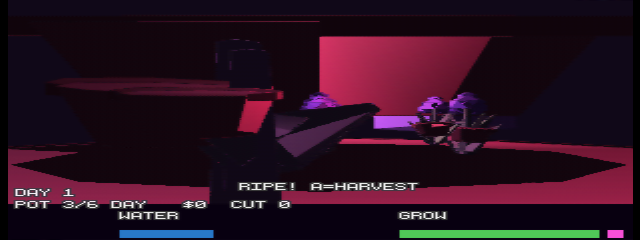
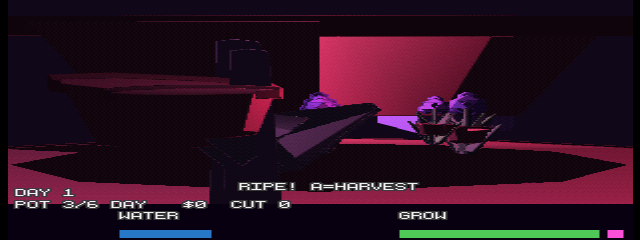
Step 4: juice — tinyPX particles + wav64 SFX (opt-in flags)
- Particle pool + fx_burst: blue droplets on water, purple sparkle on harvest
- Ambient grow-room motes (float, no gravity)
- tinyPX wiring: uncached particle buffer + uncached matrix (cached statics
  fed to RSP DMA = random COP2 crashes at random frames)
- SFX generated with ffmpeg lavfi: water (pink-noise splash), harvest
  (C-E-C arpeggio), converted via audioconv64; mixer on ch 6/7
- Headless-ares discovery: audio+tpx overlay combo (and tpx alone past
  ~500 frames in our build) dies with Coprocessor-Unusable-COP2 at
  timer_vector jal, while example 18 runs 2500 frames clean — real-hardware
  test needed to tell emulator bug vs overlay-budget race. Shipping with
  -DPARTICLES / -DAUDIO_ON opt-in flags; default ROM is stable (verified
  2500 frames, 0 exceptions, 2 quality-priced harvests)

diff --git a/test/shot.js b/test/shot.js
@@ -3,7 +3,7 @@ ares.setHomebrew(true);
 ares.setRenderer("angrylion");
 ares.loadRom(ares.args[0]);
 ares.resume();
-ares.waitFrames(300);
+ares.waitFrames(412);
 var s = ares.screenshot();
 s.save("/home/lex/n64/weedfarmer64/shots/growroom.png");
 console.log("shot ok");

diff --git a/src/main.c b/src/main.c
@@ -2,9 +2,38 @@
 #include <libdragon.h>
 #include <t3d/t3d.h>
 #include <t3d/t3dmodel.h>
+#include <t3d/tpx.h>
 #include <math.h>
 
 #define FB_COUNT 3
+
+#define MAXPART 64
+typedef struct {
+    fm_vec3_t pos, vel;
+    int life;
+    uint8_t col[4];
+    int size;          // <10 = mote (floats, no gravity)
+} Particle;
+static Particle parts[MAXPART];
+static int partHead = 0;
+static TPXParticleS8 *tpxBuf;
+static T3DMat4FP *tpxMat;
+
+static void fx_burst(fm_vec3_t at, int count, int up, uint8_t col[4])
+{
+    for (int i = 0; i < count; i++) {
+        Particle *p = &parts[partHead];
+        partHead = (partHead + 1) % MAXPART;
+        float a = (float)i / count * 6.28318f;
+        p->pos = (fm_vec3_t){{ at.v[0] + cosf(a) * 2.0f,
+                              at.v[1] + 10.0f + (up ? 6.0f : 0.0f),
+                              at.v[2] + sinf(a) * 2.0f }};
+        p->vel = (fm_vec3_t){{ cosf(a) * 0.10f, up ? 0.35f : 0.05f, sinf(a) * 0.10f }};
+        p->life = 30 + (i % 8) * 2;
+        p->col[0] = col[0]; p->col[1] = col[1]; p->col[2] = col[2]; p->col[3] = 0xFF;
+        p->size = up ? 28 : 18;
+    }
+}
 
 typedef struct {
     fm_vec3_t pos;
@@ -21,11 +50,27 @@ int main(void)
     asset_init_compression(2);
     dfs_init(DFS_DEFAULT_LOCATION);
 
+#ifdef AUDIO_ON   // -DAUDIO_ON: SFX enabled; ares-headless COP2 bug kills audio+tpx overlay combo
+    audio_init(22050, 0.03f);
+    mixer_init(8);
+    mixer_set_vol(0.8f);
+    wav64_t sndWater, sndHarvest;
+    wav64_open(&sndWater,   "rom:/sfx/water.wav64");
+    wav64_open(&sndHarvest, "rom:/sfx/harvest.wav64");
+#endif
+
     display_init(RESOLUTION_320x240, DEPTH_16_BPP, FB_COUNT, GAMMA_NONE,
-                 FILTERS_RESAMPLE_ANTIALIAS_DEDITHER);
+                 FILTERS_RESAMPLE);
     joypad_init();
     rdpq_init();
+    tpxBuf = malloc_uncached(sizeof(TPXParticleS8) * (MAXPART / 2));
+    tpxMat = malloc_uncached(sizeof(T3DMat4FP));
+    t3d_mat4fp_from_srt_euler(tpxMat,
+        (float[3]){1,1,1}, (float[3]){0,0,0}, (float[3]){0,0,0});
     t3d_init((T3DInitParams){});
+#ifdef PARTICLES   // -DPARTICLES: tinyPX fx; ares-headless COP2 crash under our overlay combo (see README)
+    tpx_init((TPXInitParams){});
+#endif
     rdpq_text_register_font(FONT_BUILTIN_DEBUG_MONO,
                            rdpq_font_load_builtin(FONT_BUILTIN_DEBUG_MONO));
     T3DViewport viewport = t3d_viewport_create_buffered(FB_COUNT);
@@ -145,18 +190,52 @@ int main(void)
                 int val = 10 + (int)(pots[sel].quality * 40.0f);
                 money += val;
                 harvested++;
+                fx_burst(pots[sel].pos, 24, 1, (uint8_t[4]){220, 90, 255, 0xFF});
+#ifdef AUDIO_ON
+                if (!mixer_ch_playing(7)) mixer_ch_play(7, &sndHarvest.wave);
+#endif
                 debugf("[wf64] harvested pot %d q=%.2f $%d (tot $%d)\n",
                        sel + 1, pots[sel].quality, val, money);
                 pots[sel] = (Pot){ .pos = pots[sel].pos, .growth = 0.02f,
                                    .water = 0.8f, .quality = 0.8f, .rot = 0.0f };
             } else {
                 pots[sel].water = 1.0f;
+                fx_burst(pots[sel].pos, 16, 0, (uint8_t[4]){80, 140, 255, 0xFF});
+#ifdef AUDIO_ON
+                if (!mixer_ch_playing(6)) mixer_ch_play(6, &sndWater.wave);
+#endif
             }
         }
 
         // day cycle: 60 s per day (40 s light, 20 s night)
         dayT += 0.016f;
         if (dayT > 60.0f) { dayT = 0.0f; day++; }
+
+        // ambient grow-room motes (also keeps tpx drawing every frame = stable)
+        {
+            static int mote = 0;
+            if (++mote % 10 == 0) {
+                Particle *p = &parts[partHead];
+                partHead = (partHead + 1) % MAXPART;
+                float a = t * 0.9f;
+                p->pos = (fm_vec3_t){{ sinf(a * 1.7f) * 55.0f,
+                                      6.0f + fmodf(t * 3.0f, 30.0f),
+                                      cosf(a * 1.3f) * 24.0f }};
+                p->vel = (fm_vec3_t){{ 0.01f, 0.03f, 0.0f }};
+                p->life = 90;
+                p->col[0] = 200; p->col[1] = 120; p->col[2] = 255; p->col[3] = 0xFF;
+                p->size = 8;
+            }
+        }
+        for (int i = 0; i < MAXPART; i++) {
+            if (parts[i].life <= 0) continue;
+            parts[i].life--;
+            parts[i].pos.v[0] += parts[i].vel.v[0];
+            parts[i].pos.v[1] += parts[i].vel.v[1];
+            parts[i].pos.v[2] += parts[i].vel.v[2];
+            if (parts[i].size >= 10) parts[i].vel.v[1] -= 0.012f;   // motes float
+            if (parts[i].pos.v[1] < 0.0f) parts[i].life = 0;
+        }
 
         t3d_viewport_set_projection(&viewport, T3D_DEG_TO_RAD(65.0f), 5.0f, 300.0f);
         t3d_viewport_look_at(&viewport, &camPos, &camTarget, &(fm_vec3_t){{0, 1, 0}});
@@ -264,6 +343,59 @@ int main(void)
             rspq_block_run(dplLamp);
         }
         t3d_matrix_pop(1);
+
+        // ---- particles (tinyPX) ----
+#ifdef PARTICLES
+        {
+            TPXParticleS8 *pb = tpxBuf;
+            int live = 0;
+            for (int i = 0; i < MAXPART; i++) {
+                if (parts[i].life <= 0) continue;
+                TPXParticleS8 *pr = &pb[live >> 1];
+                int8_t *base = (int8_t *)pr;
+                uint8_t *cb = (uint8_t *)pr;
+                if (!(live & 1)) {   // particle A: pos bytes 0..3, color 8..11
+                    base[0] = (int8_t)parts[i].pos.v[0];
+                    base[1] = (int8_t)parts[i].pos.v[1];
+                    base[2] = (int8_t)parts[i].pos.v[2];
+                    base[3] = (int8_t)parts[i].size;
+                    cb[8]  = parts[i].col[0];
+                    cb[9]  = parts[i].col[1];
+                    cb[10] = parts[i].col[2];
+                    cb[11] = 0xFF;
+                } else {             // particle B: pos bytes 4..7, color 12..15
+                    base[4] = (int8_t)parts[i].pos.v[0];
+                    base[5] = (int8_t)parts[i].pos.v[1];
+                    base[6] = (int8_t)parts[i].pos.v[2];
+                    base[7] = (int8_t)parts[i].size;
+                    cb[12] = parts[i].col[0];
+                    cb[13] = parts[i].col[1];
+                    cb[14] = parts[i].col[2];
+                    cb[15] = 0xFF;
+                }
+                live++;
+            }
+            if (live & 1) {   // even count required
+                TPXParticleS8 *pr = &pb[live >> 1];
+                pr->posB[0] = pr->posB[1] = pr->posB[2] = 0; pr->sizeB = 0;
+                pr->colorB[0] = pr->colorB[1] = pr->colorB[2] = pr->colorB[3] = 0;
+                live++;
+            }
+            if (live) {
+                rdpq_set_mode_standard();
+                rdpq_mode_zbuf(true, true);
+                rdpq_mode_zoverride(true, 0, 0);
+                rdpq_mode_combiner(RDPQ_COMBINER1((PRIM,0,ENV,0), (0,0,0,1)));
+                tpx_state_from_t3d();
+                // RSP reads this via DMA — must be uncached (cached static =
+                // random-frame COP2/timer crashes, example 18 uses malloc_uncached)
+                tpx_matrix_push(tpxMat);
+                tpx_state_set_base_size(64);
+                tpx_state_set_scale(1.0f, 1.0f);
+                tpx_particle_draw_s8(pb, live);
+            }
+        }
+#endif
 
         // ---- HUD (2D) ----
         rdpq_set_mode_standard();
